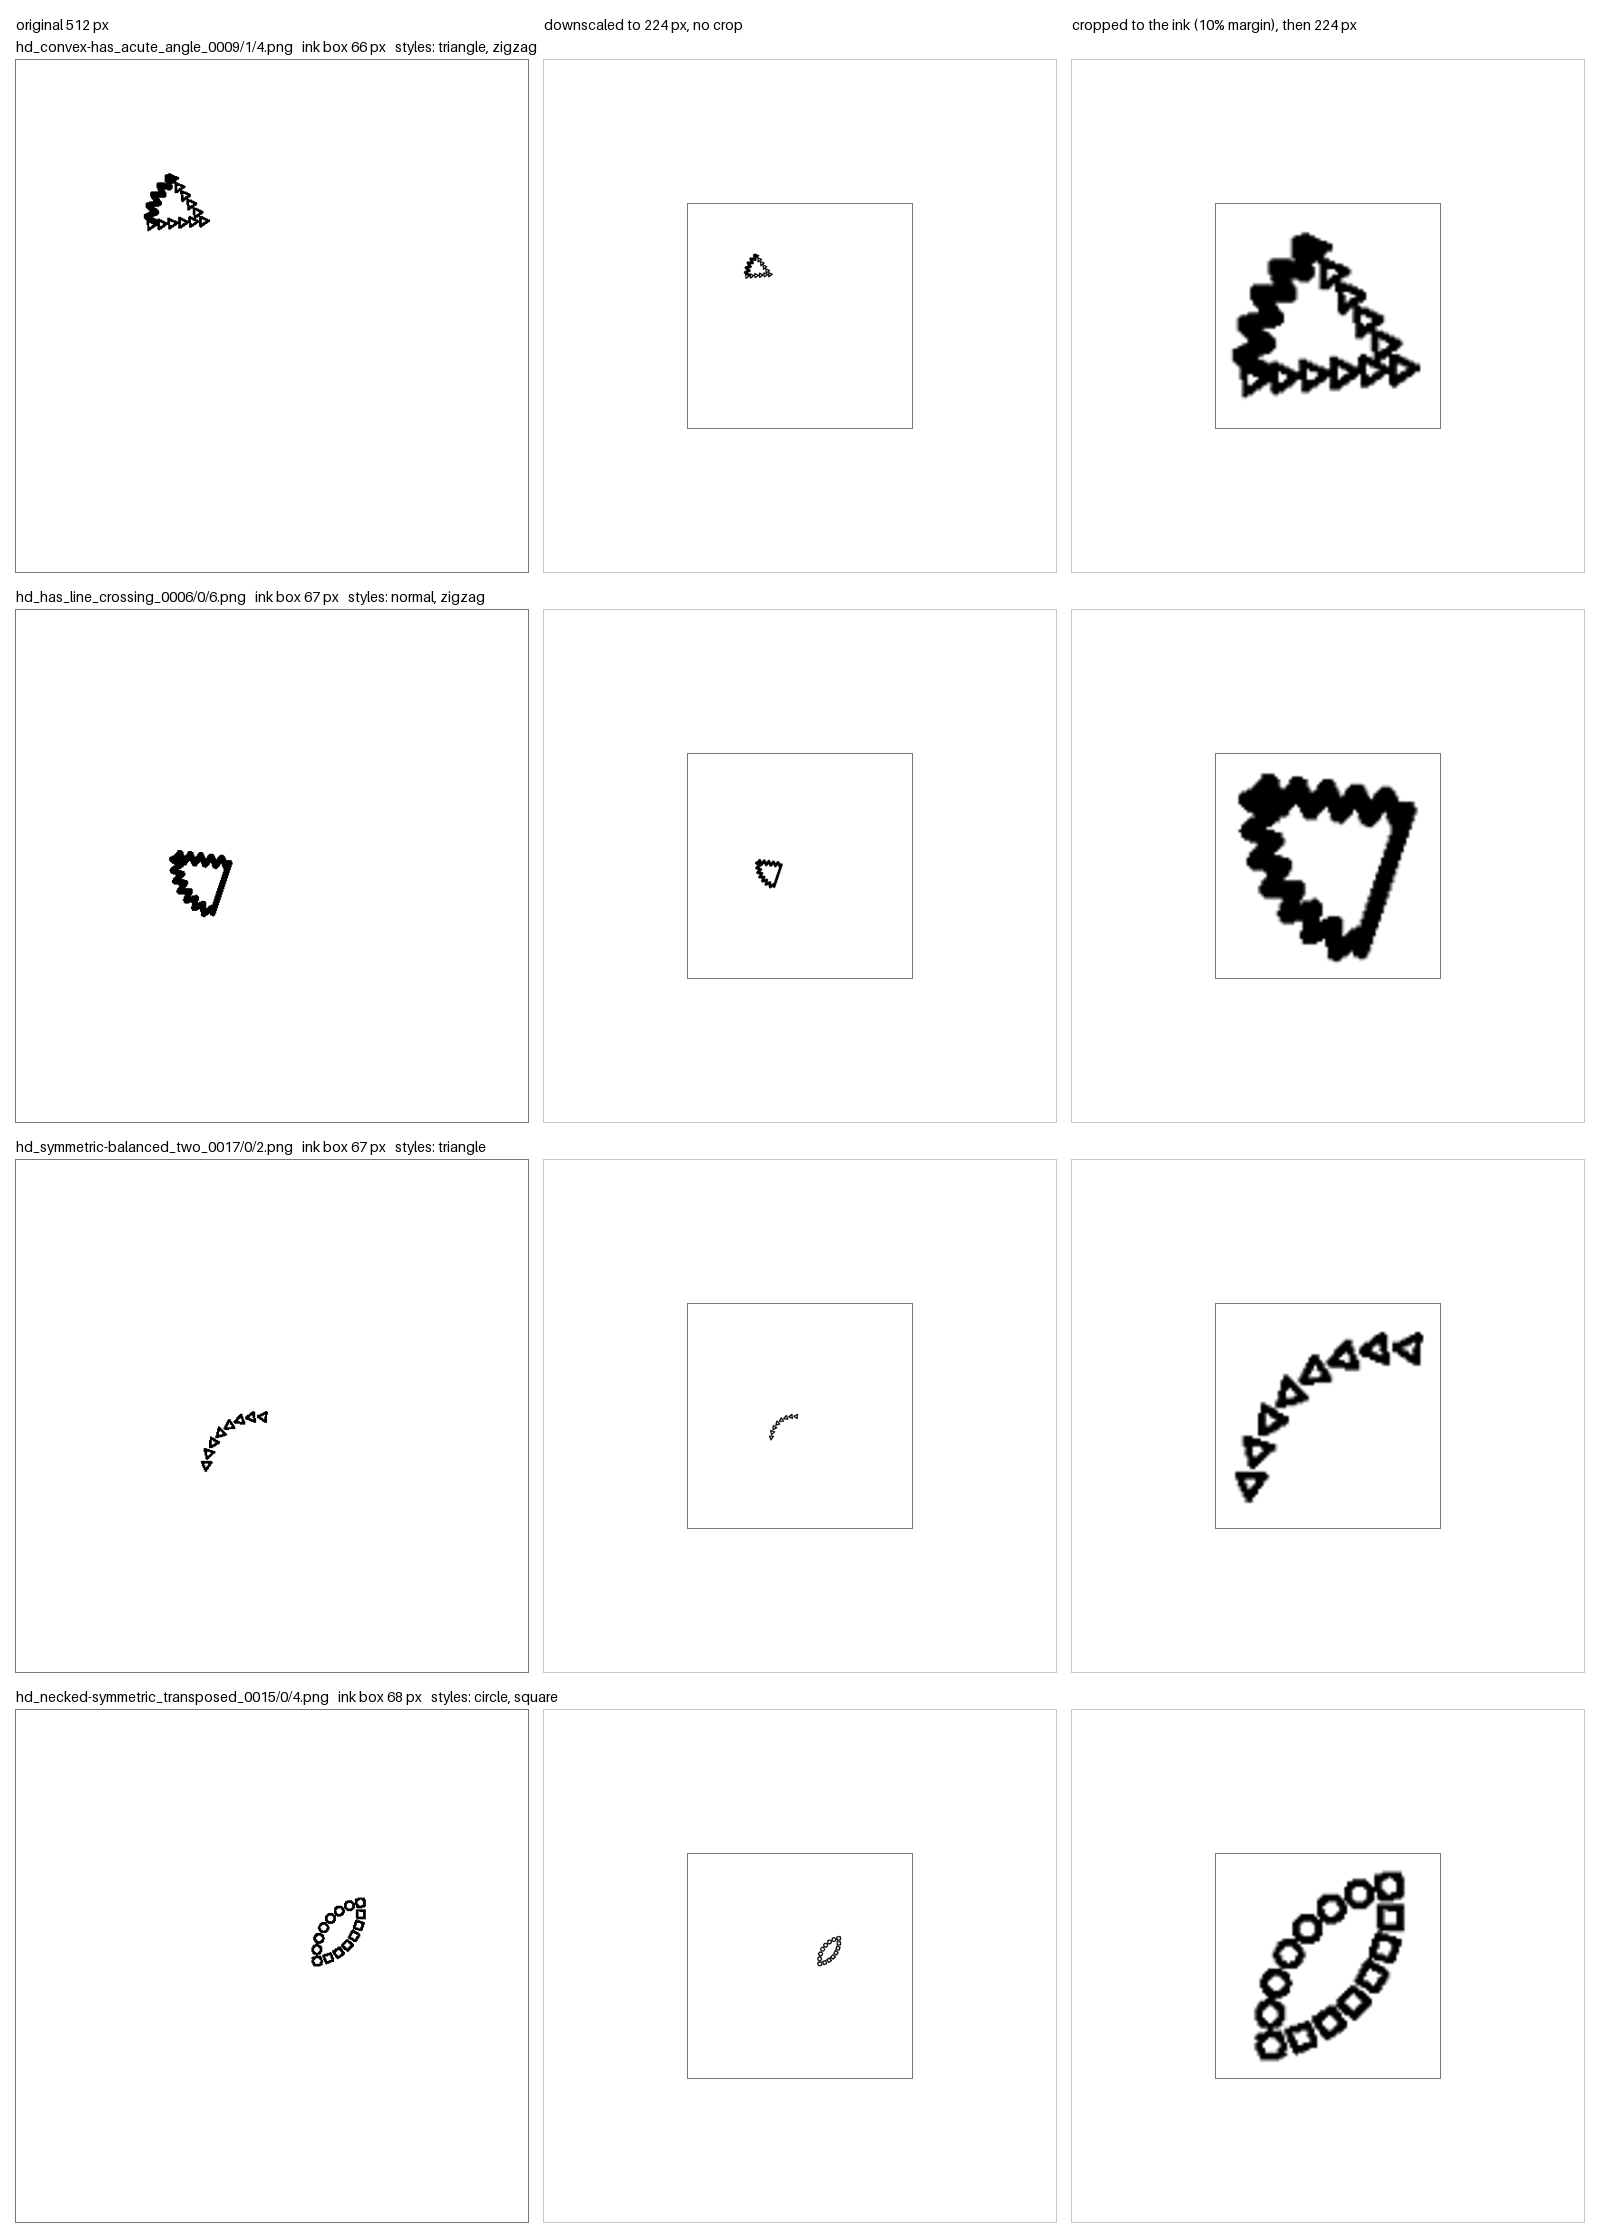
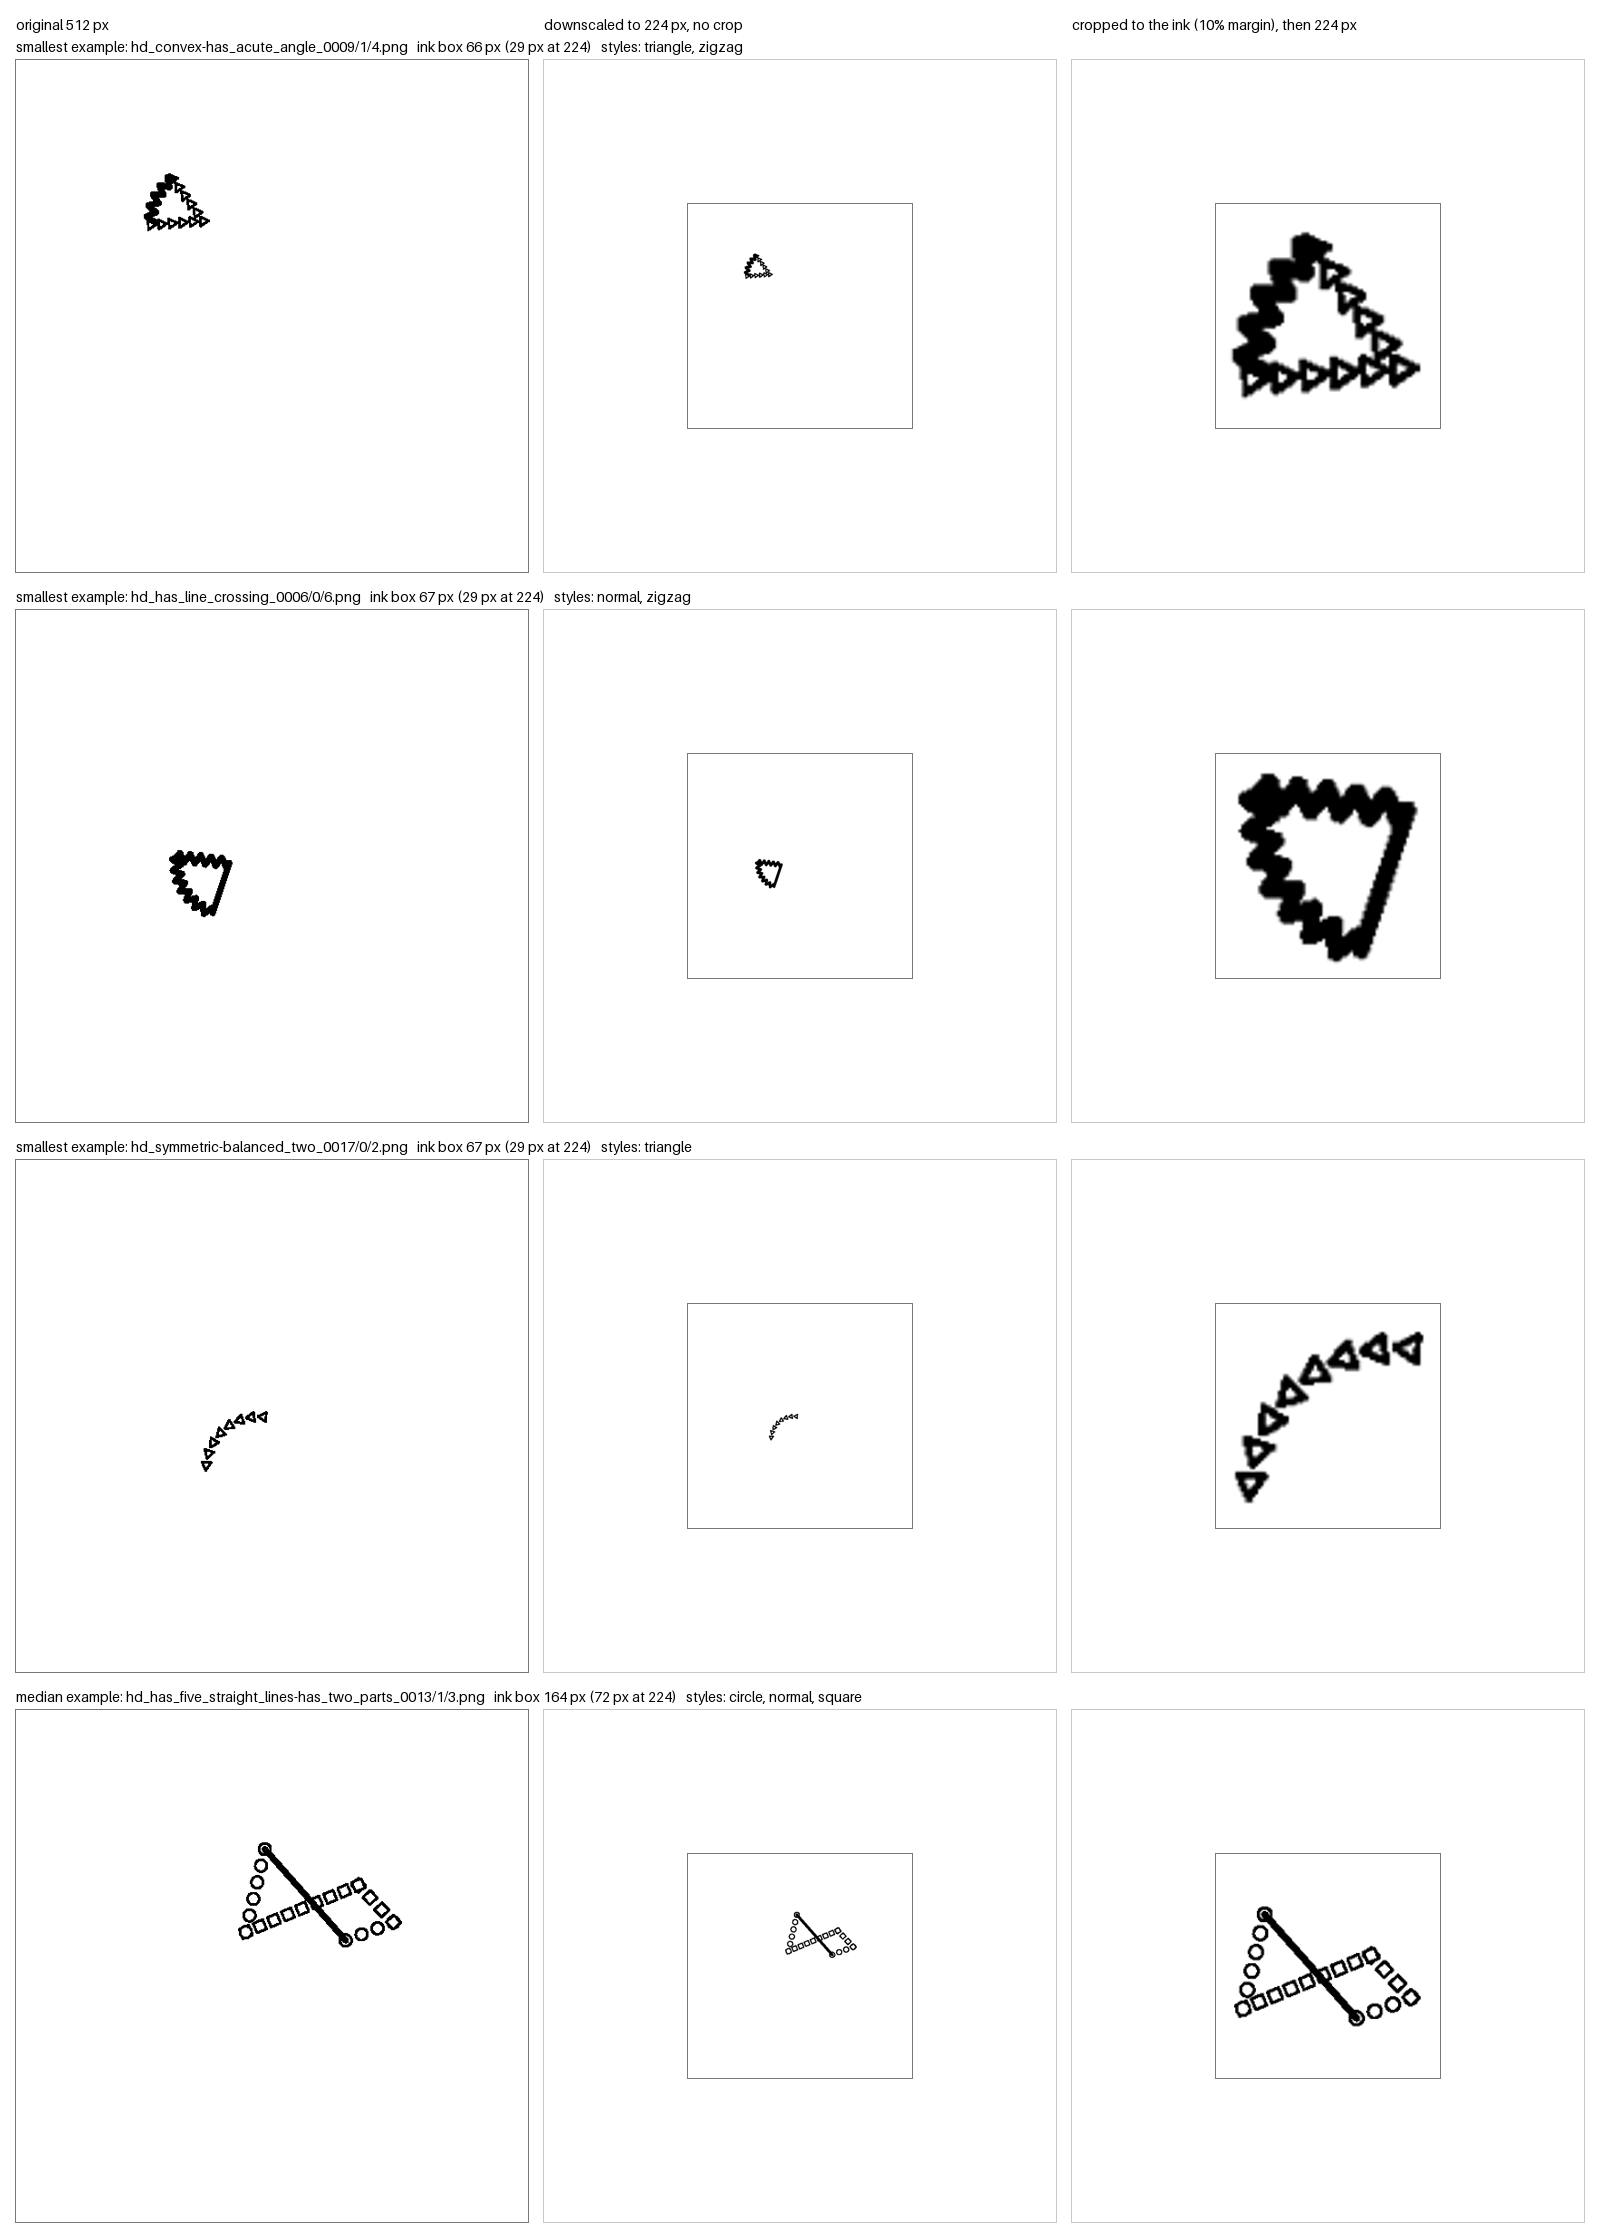
Add a median example to the 2c resolution figure
Three smallest examples (worst case) plus the median one (typical case).

diff --git a/scripts/fig_2c_resolution.py b/scripts/fig_2c_resolution.py
@@ -5,9 +5,10 @@ Question: When the image is reduced to a typical VLM input size (224 px), do
           a small shape stay legible, and does cropping to the ink help?
 Input:    A random sample of hd images whose program uses at least one fine
           style; the examples with the smallest ink bounding box are shown.
-Output:   outputs/figures/2c_resolution.png, one row per example, at true
-          pixel size: original 512 | downscaled to 224 without crop | cropped
-          to the ink with a 10% margin, then 224. Bounding box sizes on stdout.
+Output:   outputs/figures/2c_resolution.png, one row per example (the smallest
+          ones and the median one), at true pixel size: original 512 |
+          downscaled to 224 without crop | cropped to the ink with a 10%
+          margin, then 224. Bounding box sizes and percentiles on stdout.
 Decision: 2c (input resolution and cropping).
 
 Usage: python scripts/fig_2c_resolution.py [--sample N] [--rows N] [--size 224] [--seed S]
@@ -48,7 +49,7 @@ def crop_to_ink(img, bbox):
 def main():
     parser = argparse.ArgumentParser(description=__doc__.splitlines()[0])
     parser.add_argument("--sample", type=int, default=3000)
-    parser.add_argument("--rows", type=int, default=4)
+    parser.add_argument("--rows", type=int, default=3, help="number of smallest examples; one median example is added")
     parser.add_argument("--size", type=int, default=224)
     parser.add_argument("--seed", type=int, default=0)
     args = parser.parse_args()
@@ -65,7 +66,8 @@ def main():
         bbox = ink_bbox(gray)
         measured.append((max(bbox[2] - bbox[0], bbox[3] - bbox[1]), path, gray, bbox, img[0]))
     measured.sort(key=lambda m: m[0])
-    rows = measured[:args.rows]
+    # The smallest examples (worst case) plus the median example (typical case).
+    rows = [("smallest", m) for m in measured[:args.rows]] + [("median", measured[len(measured) // 2])]
     sizes = np.array([m[0] for m in measured])
     print(f"ink box longest side over {len(sizes)} sampled hd images with fine styles: "
           f"p10 {np.percentile(sizes, 10):.0f}, median {np.median(sizes):.0f}, p90 {np.percentile(sizes, 90):.0f} px; "
@@ -83,9 +85,10 @@ def main():
     for col, text in enumerate(headers):
         draw.text((pad + col * (big + gap), pad), text, fill="black", font=font)
     y = pad + text_h
-    for longest, path, gray, bbox, actions in rows:
+    for tag, (longest, path, gray, bbox, actions) in rows:
         styles = sorted({a.split("_")[1] for a in actions})
-        label = f"{path.parent.parent.name}/{path.parent.name}/{path.name}   ink box {longest} px   styles: {', '.join(styles)}"
+        label = (f"{tag} example: {path.parent.parent.name}/{path.parent.name}/{path.name}   ink box {longest} px "
+                 f"({longest * small / 512:.0f} px at {small})   styles: {', '.join(styles)}")
         print(label)
         draw.text((pad, y), label, fill="black", font=font)
         y += text_h
